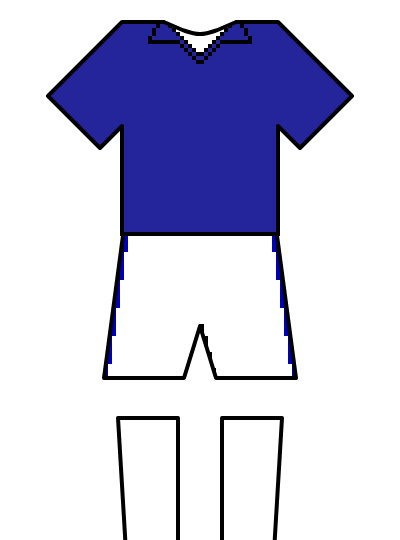
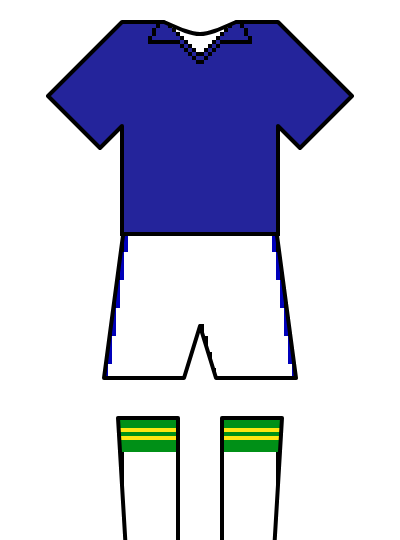
Complete the kit drawings: last socks pictures for Brazil 1958 and France 2006
Claude-Session: https://claude.ai/code/session_019gbuJGYaZ4pQBD5fAWM6oT

Changed region(s): [[0.54, 0.7704, 0.72, 0.8593], [0.3, 0.7704, 0.45, 0.8593]]

diff --git a/public/data/kits.js b/public/data/kits.js
@@ -189,7 +189,7 @@ window.HALFTIME_KITS = [
     matches: ["1958-world-cup-final"],
     coloursSource: "Wikipedia, \"1958 FIFA World Cup final\" (revision 1370476889), CC BY-SA 4.0",
     coloursUrl: "https://en.wikipedia.org/w/index.php?title=1958_FIFA_World_Cup_final&oldid=1370476889",
-    illustration: { file: "brazil-1958.png", credit: "Drawn after the kit shown in Wikipedia’s \"1958 FIFA World Cup final\" article. Pattern pictures from Wikimedia Commons: Kit body collar.png (Public domain, VEO15); Kit shorts darkblue stripes.png (CC BY-SA 4.0, Manya_1996). Outline: Wikimedia Commons kit template drawings." }
+    illustration: { file: "brazil-1958.png", credit: "Drawn after the kit shown in Wikipedia’s \"1958 FIFA World Cup final\" article. Pattern pictures from Wikimedia Commons: Kit body collar.png (Public domain, VEO15); Kit shorts darkblue stripes.png (CC BY-SA 4.0, Manya_1996); Kit socks brasil1954l.png (CC BY 4.0, NeoRibeiro). Outline: Wikimedia Commons kit template drawings." }
   },
   {
     id: "sweden-1958",
@@ -549,7 +549,7 @@ window.HALFTIME_KITS = [
     matches: ["2006-world-cup-final"],
     coloursSource: "Wikipedia, \"2006 FIFA World Cup final\" (revision 1376632237), CC BY-SA 4.0",
     coloursUrl: "https://en.wikipedia.org/w/index.php?title=2006_FIFA_World_Cup_final&oldid=1376632237",
-    illustration: { file: "france-2006.png", credit: "Drawn after the kit shown in Wikipedia’s \"2006 FIFA World Cup final\" article. Pattern pictures from Wikimedia Commons: Kit left arm fra06A.png (CC BY-SA 4.0, Hurfer); Kit body fra06A.png (CC BY-SA 4.0, Hurfer); Kit right arm fra06A.png (CC BY-SA 4.0, Hurfer); Kit shorts fra06H1.png (CC BY-SA 4.0, Hurfer). Outline: Wikimedia Commons kit template drawings." }
+    illustration: { file: "france-2006.png", credit: "Drawn after the kit shown in Wikipedia’s \"2006 FIFA World Cup final\" article. Pattern pictures from Wikimedia Commons: Kit left arm fra06A.png (CC BY-SA 4.0, Hurfer); Kit body fra06A.png (CC BY-SA 4.0, Hurfer); Kit right arm fra06A.png (CC BY-SA 4.0, Hurfer); Kit shorts fra06H1.png (CC BY-SA 4.0, Hurfer); Kit socks fra06Al.png (CC BY-SA 4.0, Hurfer). Outline: Wikimedia Commons kit template drawings." }
   },
   {
     id: "italy-2006",
